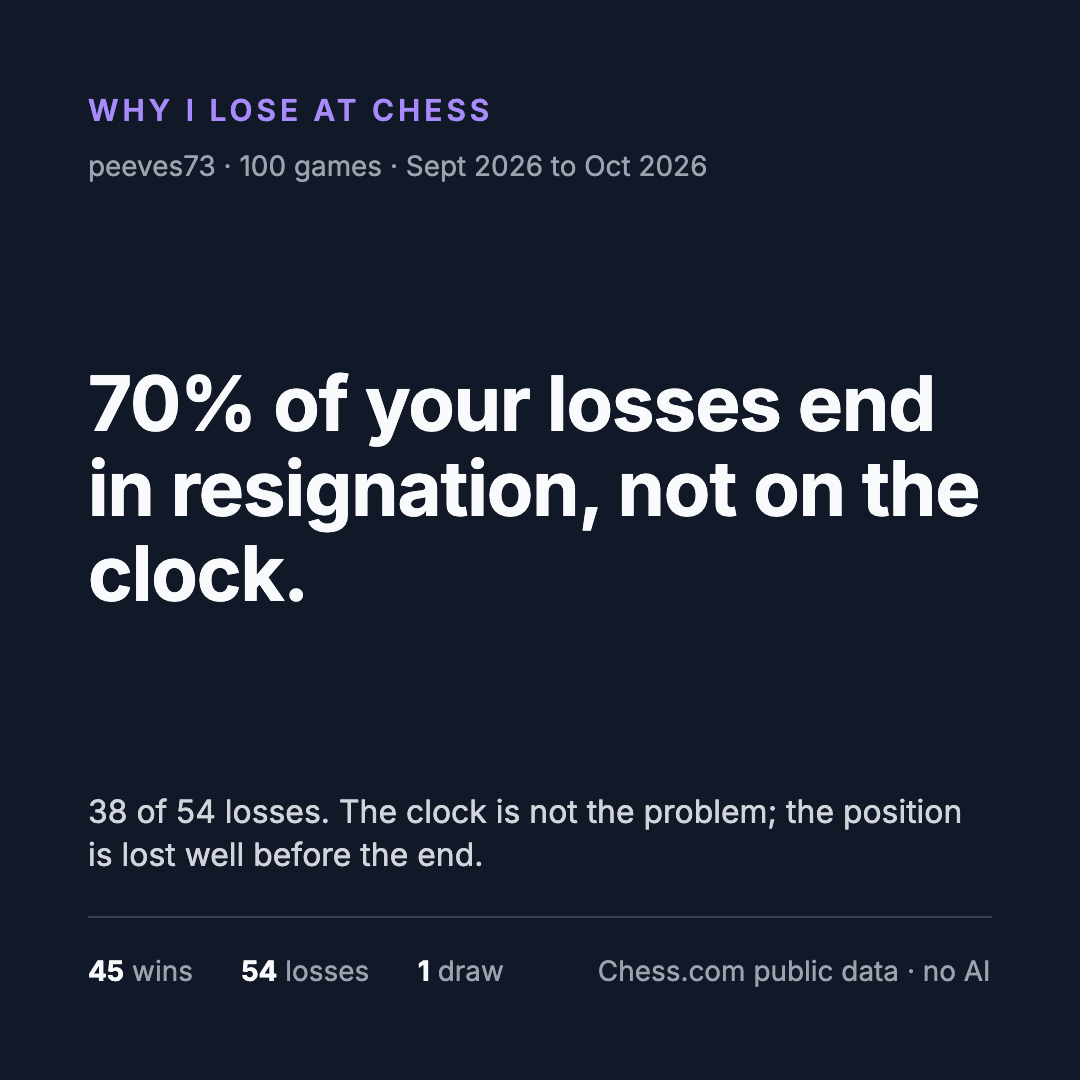
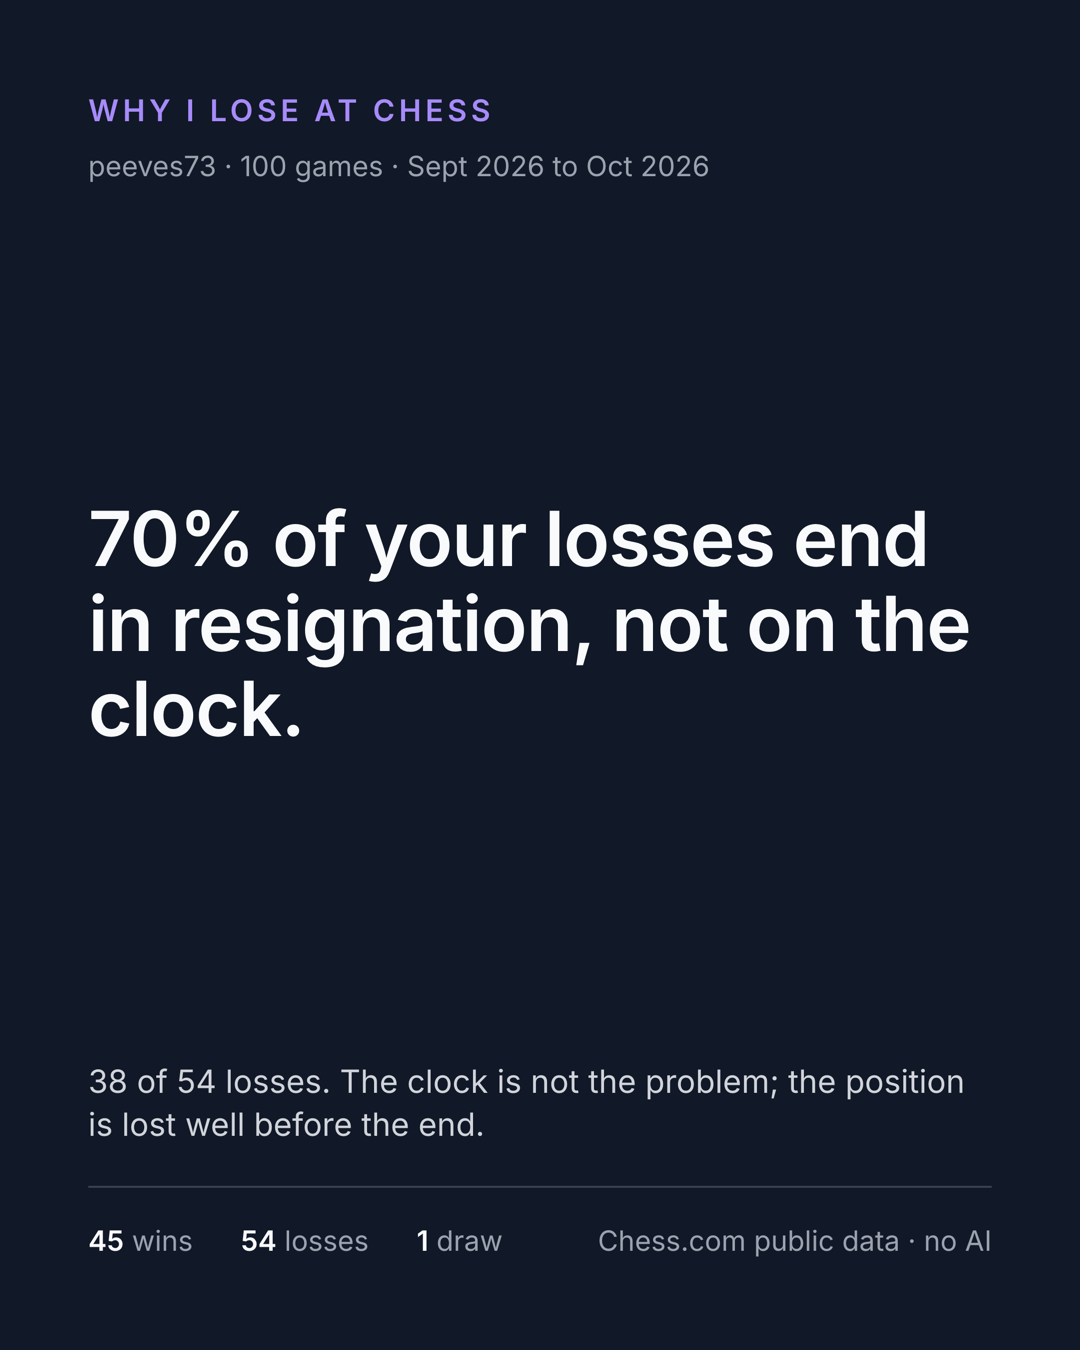
Replace screenshots with 1080x1350 shots of the redesigned site

diff --git a/README.md b/README.md
@@ -6,7 +6,7 @@ Built for [Buildtober](https://github.com/amit-srivatsa) day 3 (3 October 2026):
 
 **Live Demo**: [https://amit-srivatsa.github.io/chess-stats/](https://amit-srivatsa.github.io/chess-stats/)
 
-![Why I lose](docs/screenshots/02-why-i-lose-full.png)
+![Why I lose](docs/screenshots/01-why-i-lose.png)
 
 ## Two views
 
